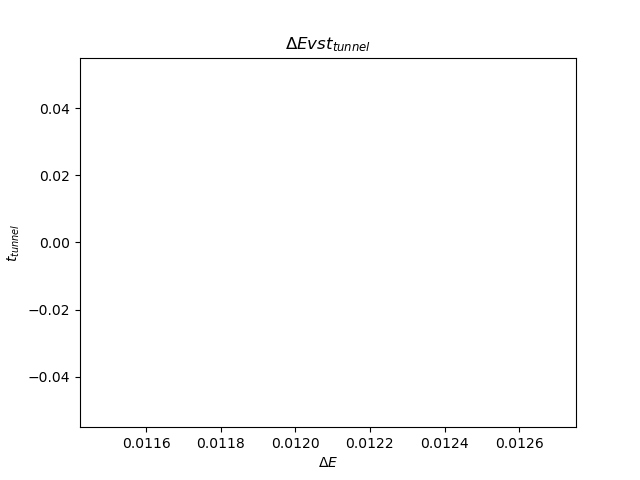
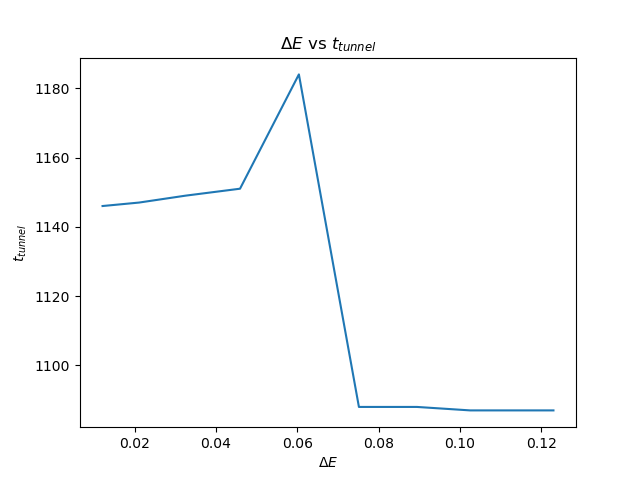
Added vectorized functions to problem d to cut run time.

diff --git a/Phys-142-Assignment-2/problem_d/problem_d.py b/Phys-142-Assignment-2/problem_d/problem_d.py
@@ -4,7 +4,7 @@ import numpy as np
 
 
 import constants
-from helpers import expectation, H_operator, x_operator, normalize
+from helpers import expectation, H_operator, x_operator, normalize, expectation_vectorized, normalize_vectorized
 
 
 def delta_E(
@@ -19,9 +19,7 @@ def delta_E(
     return E_1 - E_0
 
 
-def t_tunnel(psi_initial: np.ndarray[complex, Any]) -> float:
-    timesteps = 3000
-
+def t_tunnel(psi_initial: np.ndarray[complex, Any], timesteps: int) -> float:
     psi_t = psi_initial
     expectation_x = np.zeros(timesteps)
 
@@ -33,7 +31,7 @@ def t_tunnel(psi_initial: np.ndarray[complex, Any]) -> float:
 
 
 def run(
-    alphas: np.ndarray[float, Any]
+    alphas: np.ndarray[float, Any], timesteps: int = 2000
 ) -> tuple[np.ndarray[float, Any], np.ndarray[float, Any]]:
 
     delta_Es = np.zeros(alphas.shape)
@@ -51,7 +49,56 @@ def run(
         )
 
         delta_Es[i] = delta_E(psi_plus, psi_minus)
-        t_tunnels[i] = t_tunnel(psi_plus)
+        t_tunnels[i] = t_tunnel(psi_plus, timesteps)
+
+    return delta_Es, t_tunnels
+
+
+def delta_E_vectorized(
+    psi_pluses: np.ndarray[complex, Any], psi_minuses: np.ndarray[complex, Any], axis: int
+) -> np.ndarray[float, Any]:
+    psis_symmetric = 2**-0.5 * (psi_pluses + psi_minuses)
+    psis_asymmetric = 2**-0.5 * (psi_pluses - psi_minuses)
+
+    E_0 = expectation_vectorized(H_operator, psis_symmetric, axis=axis)
+    E_1 = expectation_vectorized(H_operator, psis_asymmetric, axis=axis)
+
+    return E_1 - E_0
+
+
+def t_tunnel_vectorized(
+    psi_initial: np.ndarray[complex, Any], timesteps: int, axis
+) -> np.ndarray[float, Any]:
+    psi_t = psi_initial
+    expectation_x = np.zeros((timesteps, psi_initial.shape[-1]))
+
+    for t in range(timesteps):
+        psi_t = normalize_vectorized(constants.K @ psi_t, axis=axis)
+        expectation_x[t] = expectation_vectorized(x_operator, psi_t, axis=axis)
+
+    return np.argmin(expectation_x, axis=0).astype(float)
+
+
+def run_vectorized(
+    alphas: np.ndarray[float, Any], timesteps: int = 1500
+) -> tuple[np.ndarray[float, Any], np.ndarray[float, Any]]:
+
+    t_tunnels = np.zeros(alphas.shape)
+
+    x_mins = alphas**-0.5
+
+    psi_pluses = (constants.OMEGA / np.pi) ** (1 / 4) * np.exp(
+        -constants.OMEGA / 2 * (constants.X - x_mins) ** 2
+    )
+
+    psi_minuses = (constants.OMEGA / np.pi) ** (1 / 4) * np.exp(
+        -constants.OMEGA / 2 * (constants.X + x_mins) ** 2
+    )
+
+    delta_Es = delta_E_vectorized(psi_pluses, psi_minuses, axis=0)
+
+    t_tunnels = t_tunnel_vectorized(psi_pluses, timesteps, axis=0)
+
 
     return delta_Es, t_tunnels
 
@@ -63,7 +110,7 @@ def display(
 
     plt.plot(delta_Es, t_tunnels)
 
-    plt.title(r"$\Delta E vs t_{tunnel}$")
+    plt.title(r"$\Delta E$ vs $t_{tunnel}$")
     plt.xlabel(r"$\Delta E$")
     plt.ylabel(r"$t_{tunnel}$")
 

diff --git a/Phys-142-Assignment-2/helpers/helpers.py b/Phys-142-Assignment-2/helpers/helpers.py
@@ -7,15 +7,32 @@ def integrate(integrand: np.ndarray[complex, Any], dx: float = constants.DX) -> 
     return np.sum(integrand) * dx
 
 
-def normalize(psi: np.ndarray[complex, Any]) -> np.ndarray[complex, Any]:
+def integrate_vectorized(integrand: np.ndarray[complex, Any],  axis: int, dx: float = constants.DX) -> np.ndarray[complex, Any]:
+    return np.sum(integrand, axis=axis) * dx
+
+
+def normalize(psi: np.ndarray[complex, Any], axis: int | None = None) -> np.ndarray[complex, Any]:
     return psi / np.sqrt(integrate(np.abs(psi) ** 2))
+
+
+def normalize_vectorized(psi: np.ndarray[complex, Any], axis: int) -> np.ndarray[complex, Any]:
+    return psi / np.sqrt(integrate_vectorized(np.abs(psi) ** 2, axis=axis))
 
 
 def expectation(
     operator: Callable[[np.ndarray[complex, Any]], np.ndarray[complex, Any]],
     psi: np.ndarray[complex, Any],
+    axis: int | None = None
 ) -> float:
     return np.real(integrate(operator(psi)))
+
+
+def expectation_vectorized(
+        operator: Callable[[np.ndarray[complex, Any]], np.ndarray[complex, Any]],
+    psi: np.ndarray[complex, Any],
+    axis: int
+) -> np.ndarray[float, Any]:
+    return np.real(integrate_vectorized(operator(psi), axis=axis))
 
 
 def partial_dx(
@@ -24,8 +41,8 @@ def partial_dx(
     return (psi[2:] - psi[:-2]) / (2 * dx)
 
 
-def x_operator(psi: [np.ndarray[complex, Any]]) -> np.ndarray[complex, Any]:
-    return constants.X * np.abs(psi) ** 2
+def x_operator(psi: np.ndarray[complex, Any], x: np.ndarray[float, Any] = constants.X) -> np.ndarray[complex, Any]:
+    return x * np.abs(psi) ** 2
 
 
 def H_operator(psi: np.ndarray[complex, Any]) -> np.ndarray[complex, Any]:

diff --git a/Phys-142-Assignment-2/main.py b/Phys-142-Assignment-2/main.py
@@ -9,4 +9,6 @@ import problem_d
 # problem_a.display(problem_a.run(3000), show=True)
 # problem_b.display(problem_b.run())
 
-# problem_d.display(problem_d.run(constants.ALPHA * np.arange(1, 10)), show=True)
+alphas = constants.ALPHA * np.linspace(0.5, 2, 25)
+
+# problem_d.display(problem_d.run_vectorized(constants.ALPHA * np.linspace(0.5, 2, 20)), show=True)
